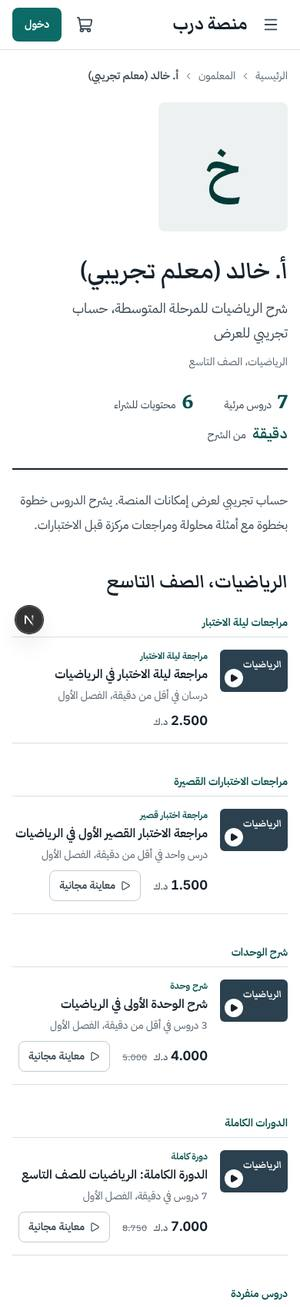
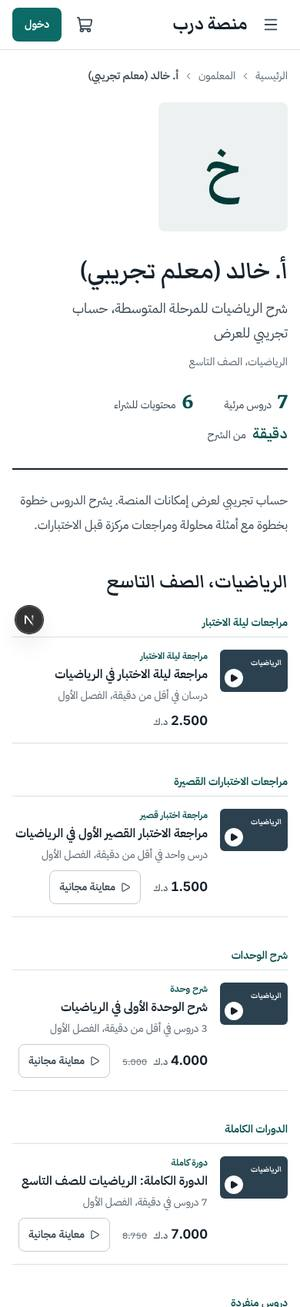
Docs: redesign report (skills, design system, detector before/after, critique fixes, tests) and final screenshots
Claude-Session: https://claude.ai/code/session_01V6x5TXbnFmVJ3Le4pU3rah

diff --git a/edu-platform/docs/design/REDESIGN.md b/edu-platform/docs/design/REDESIGN.md
@@ -1,0 +1,156 @@
+# إعادة تصميم منصة درب: «جدول الحصص»
+
+هذا الملف يوثّق إعادة التصميم على الفرع `claude/design-redesign`: المهارات المستخدمة، ونظام التصميم، وما تغيّر في كل صفحة، والقياسات قبل وبعد، ونتائج الاختبارات، وما بقي مفتوحًا.
+
+مراجع مرافقة: [DIRECTIONS.md](DIRECTIONS.md) (الاتجاهات الثلاثة وسبب الاختيار)، و`PRODUCT.md` في جذر المستودع (موجز المنتج الذي كتبته Impeccable).
+
+## 1. المهارات: التثبيت والتفعيل
+
+| المهارة | الإصدار | طريقة التثبيت | النطاق | التحقق من التفعيل |
+| --- | --- | --- | --- | --- |
+| Impeccable | 4.8.0 (محرك الفحص 0.1.18) | إضافة Claude Code من السوق الرسمي `pbakaus/impeccable` | المشروع: `.claude/settings.json` | الأوامر عملت في جلسة جديدة (`/impeccable init` كتب `PRODUCT.md`)، والخطاف مفعّل في `.impeccable/config.json`، والمهارة ظاهرة ضمن المهارات المحمّلة بعد إعادة تشغيل الجلسة |
+| UI UX Pro Max | 2.15.0 | `npx ui-ux-pro-max-cli@2.15.0 init --ai claude` بعد تشغيل تجريبي `--dry-run` ومراجعة ما سيكتبه | المشروع: `.claude/skills/` | المهارات السبع ظاهرة ضمن المهارات المحمّلة في الجلسة |
+| Frontend Design (Anthropic) | 1.1.1 | إضافة رسمية متاحة مسبقًا في البيئة | الحساب | حُمّلت فعليًا عبر أداة المهارات واتُّبعت خطواتها |
+
+ملاحظات صادقة:
+- مثبّت Impeccable عبر `npx impeccable install` فشل لأن `impeccable.style` غير متاح من الشبكة، ولم يُثبَّت شيء منه. استُخدم بدلًا منه طريق الإضافة الرسمي.
+- الإضافات لا تُحمَّل داخل جلسة جارية، لذا تحققتُ منها بتشغيل Claude Code بلا واجهة في جلسة جديدة قبل الاعتماد عليها.
+- لم يُكتب أي مفتاح أو سر في الملفات.
+
+## 2. ما استُخدم من كل مهارة
+
+**Frontend Design:** طريقة العمل نفسها: خطة رموز قصيرة، ثم مراجعتها مقابل الموجز قبل البناء، ثم بناء ونقد بالصور. وقائمة علامات التصاميم المولّدة التي تجنّبناها: العناوين الصغيرة فوق كل قسم، وسلاسل «أ · ب · ج»، وعناوين «كلمة — جزء»، والأسهم في الأزرار، والترقيم الزخرفي. الترقيم بقي فقط حيث المحتوى تسلسل فعلي: أرقام الصفوف، وترتيب الدروس، وخطوات الشراء.
+
+**UI UX Pro Max:** بيانات أزواج الخطوط وإرشادات تجربة الاستخدام عند اختيار الخطوط ومقاسات اللمس والتباين (44px للأهداف القابلة للمس، وتباين 4.5:1 للنص).
+
+**Impeccable:**
+- `init`: كتابة `PRODUCT.md` من إجابات الموجز.
+- `detect`: قياس موضوعي للتصميم القديم، ثم للاتجاهات الثلاثة، ثم لكل صفحة بعد التطبيق (الجدول في القسم 5).
+- `critique`: مراجعتان مستقلتان للصفحة الرئيسية وصفحة الدورة، ونُفّذت أغلب ملاحظاتهما (القسم 6).
+
+## 3. نظام التصميم
+
+**الفكرة:** عالم الطالب الكويتي منظّم بأرقام الصفوف وجدول الحصص والاختبارات. البطل هو أرقام الصفوف نفسها (٦ ٧ ٨ ٩) بخط عرض كبير، وكل رقم هو زر الدخول للصف. المحتوى يُعرض كصفوف جدول بدل شبكات البطاقات.
+
+**الألوان** (في `src/app/globals.css`؛ الأساسي والمساعد قابلان للتغيير من إعدادات المالك):
+
+| الرمز | القيمة | الاستخدام |
+| --- | --- | --- |
+| `--brand` | `#0C6B66` أخضر الخليج | الأفعال والروابط والمؤشرات |
+| `--accent` | `#F2C230` أصفر الاختبار | ما يخص وقت الاختبار والمجاني والتركيز على الخلفيات الداكنة فقط |
+| `ink` | `#16212B` | النص والخطوط الفاصلة السميكة والأقسام الداكنة |
+| `mist` | `#EDF1F1` | لوحات الشراء والملخصات والشريط الجانبي |
+| `surface` | `#FFFFFF` | خلفية الصفحات |
+| `line` / `line-strong` | `#D9E0E1` / `#C3CDCF` | الخطوط الفاصلة بين الصفوف |
+
+**الخطوط:** Markazi Text للعناوين والأرقام الكبيرة، وIBM Plex Sans Arabic للواجهة والنصوص.
+
+**الزوايا والظلال:** زوايا صغيرة (4 إلى 8px)، وبلا ظلال تقريبًا؛ الفصل بين الأجزاء بخط حبر سميك أعلى القسم وخطوط رفيعة بين الصفوف.
+
+**المكوّنات المشتركة:**
+- `ProductRow` و`ProductList` (`components/site/product-card.tsx`): صف جدول فيه ملصق صغير، ونوع المحتوى، والعنوان، وسطر وصفي، والسعر، وزر معاينة. الصف كله قابل للنقر، وزر المعاينة طبقة مستقلة.
+- `ProductCover`: ملصق طباعي باسم المادة على لون داكن ثابت بدل الأغلفة المولدة.
+- `BundleRow`: صف باقة بوفر فعلي فقط.
+- `TeacherAvatar` و`TeacherGrid`: حرف أول بخط العرض بدل الصور الافتراضية.
+- `AdminPageHeader` و`StatCard` و`Section`: رأس صفحة بخط حبر، وأرقام ملخّصة بخط علوي بدل البطاقات المظللة.
+- `Button` و`Card` و`Alert` و`EmptyState` و`Table`: زوايا أصغر وبلا ظلال.
+
+## 4. ما تغيّر
+
+**صفحات الطالب:** الرئيسية، الصف، المادة، المعلمون، صفحة المعلم، صفحة الشرح أو الدورة، صفحة المذكرة، الباقات، المشاهدة، السلة، الشراء (ثلاث خطوات مرقّمة)، المكتبة (لوحة «تابع من حيث توقفت»)، الطلب، الحساب، الدخول والتسجيل، صفحة 404.
+
+**لوحتا المالك والمعلم:** شريط جانبي على خلفية `mist` مع مؤشر بلون العلامة، ورؤوس صفحات بخط العرض، وأرقام ملخّصة، ونموذج المحتوى بخطوات مرقّمة، وجداول بلا ظلال.
+
+**المحتوى والنصوص:**
+- عناوين المحتوى التجريبي بلا شرطات طويلة، وتصحيح «لالصف» إلى «للصف».
+- مدة الوصول بصيغة عربية صحيحة («7 أيام»، «بلا تاريخ انتهاء» بدل «وصول غير محدد») وتظهر بجوار السعر وفي شريط الشراء على الجوال.
+- الأسئلة الشائعة تغطي الفيديو ومدة الوصول والاسترجاع.
+
+**ترحيل آمن:** `db/migrations/0005_brand_palette.sql` يحدّث لوني العلامة فقط إذا كانا على القيم الافتراضية القديمة، فلا يمس اختيار مالك غيّرهما.
+
+**ما لم يتغيّر:** منطق الدفع، والصلاحيات، والوصول للملفات والدروس، وقاعدة البيانات (عدا الترحيل أعلاه). صفحات `/lab` (نماذج الاتجاهات الثلاثة) تعمل في بيئة التطوير فقط وتُرجع 404 في الإنتاج.
+
+## 5. القياس قبل وبعد (Impeccable detect)
+
+نفس البيانات ونفس الروابط، بلا أي إعدادات تجاهل (`--no-config`)، على 1280×800 و390×844. «قبل» هو الإصدار `e8516cf` مشغّلًا على منفذ منفصل.
+
+| الصفحة | قبل (كمبيوتر/جوال) | بعد |
+| --- | --- | --- |
+| الرئيسية | 34 / 29 | 0 / 0 |
+| الصف | 12 / 6 | 0 / 0 |
+| المادة | 5 / 2 | 0 / 0 |
+| المعلمون | 7 / 6 | 0 / 0 |
+| صفحة المعلم | 5 / 3 | 0 / 0 |
+| الدورة (فيديو) | 4 / 3 | 0 / 0 |
+| المذكرة (PDF) | 4 / 4 | 0 / 0 |
+| الباقات | 10 / 9 | 0 / 0 |
+| الدخول | 2 / 2 | 0 / 0 |
+| **المجموع** | **147** | **0** |
+
+أكثر الملاحظات قبل: لوحة ألوان تبدو مولّدة (42)، تباين ضعيف (30)، عناوين غير متوازنة (24)، لوحة كريمية (18)، مربعات أيقونات متكررة (14).
+
+صفر ملاحظات لا يعني أن التصميم ممتاز؛ الأداة تكشف الأنماط المعروفة فقط. لذلك أُضيفت المراجعة التالية.
+
+## 6. مراجعة Impeccable (critique)
+
+شُغّلت مراجعتان بلا واجهة، كل منهما بتقييمين مستقلين (مراجعة تصميم + فحص بالأداة في المتصفح). في مراجعة الرئيسية لم يتمكن التقييم الثاني من تشغيل أوامره، فشغّلته الجلسة الرئيسية بعد انتهاء الأول، وهذا مذكور في تقريرها.
+
+| الصفحة | النتيجة (معايير Nielsen) |
+| --- | --- |
+| الرئيسية | 25/40 (مقبول) |
+| صفحة الدورة | 23/40 (مقبول) |
+
+**ما أصلحتُه بعدها:**
+- خلل أدخلته أثناء التنظيف: خلفية الرأس الثابت صارت شفافة (`bg-surface-sm`). صُحح.
+- مدة الوصول كانت تظهر «وصول غير محدد»، وصيغة «N يومًا» خاطئة من 3 إلى 10. صُححت وأُضيفت لشريط الشراء على الجوال.
+- قسم «ضمن باقة أوفر» كان يصف باقة أغلى بأنها أوفر. صار «متوفر أيضًا ضمن باقة» مع توضيح ما تضمه.
+- أهداف لمس صغيرة: الصف كاملًا صار قابلًا للنقر، وأزرار المعاينة وروابط الأقسام وروابط التذييل بارتفاع 44px تقريبًا.
+- حلقة التركيز على الأقسام الداكنة كانت بتباين 2.6:1. صارت صفراء.
+- لوحة الدرس المميز كانت كتلة بلا معلومات. صارت تعرض النوع والصف وعدد الدروس والسعر.
+- الأسئلة الشائعة كانت عن المذكرات فقط. أُضيفت أسئلة الفيديو ومدة الوصول والاسترجاع.
+- جملة الدفع «ادفع مرة واحدة» قد تُفهم وصولًا دائمًا. أُعيدت صياغتها.
+- إزالة الخط المشطوب الأحمر، وإضافة «السعر قبل الخصم» لقارئات الشاشة، وحذف ذكر «Bunny Stream» من صفحة المشاهدة، ولون شريط المتصفح.
+
+## 7. الاختبارات (بعد آخر تعديل)
+
+| الفحص | النتيجة |
+| --- | --- |
+| `tsc --noEmit` | ناجح |
+| Vitest (وحدات + تكامل على PostgreSQL) | 196/196 |
+| `next build` | ناجح |
+| Playwright E2E (كمبيوتر + iPhone 13 + iPad) | 33 ناجحة، 21 متخطاة عمدًا (رحلات تُشغَّل على قياس واحد)، 0 فاشلة |
+
+تعديلات الاختبارات: نصوص العناوين التجريبية الجديدة، واستبدال عنوان «اختر صفك الدراسي» بمنطقة اختيار الصف. لم يُتخطَّ أو يُعطَّل أي اختبار.
+
+## 8. ما بقي مفتوحًا
+
+- **خليط الأرقام:** أرقام الصفوف هندية-عربية (٦ ٧ ٨ ٩) كعنصر هوية، والأسعار والمدد بأرقام غربية كما في إيصالات كي نت. المراجعة اعتبرته عدم اتساق؛ القرار يحتاج رأي المالك.
+- **طول الرئيسية على الجوال** (قرابة 8000px وتسعة أقسام). المراجعة اقترحت دمج «أضيف حديثًا» و«المذكرات» والباقات؛ لم أحذف أقسامًا دون موافقة.
+- **لا يوجد بحث** في المنصة.
+- **الطالب العائد** لا يرى «تابع من حيث توقفت» في الرئيسية (موجود في المكتبة فقط).
+- **صفوف الدورة تُعرض مرتين** في صفحة الدورة (جدول الدروس ثم «أجزاء الدورة» للشراء المنفرد). وُضّح الغرض بنص، والدمج تغيير أكبر.
+- **لون شريط المتصفح** ثابت ولا يتبع لون العلامة إذا غيّره المالك.
+- **المحتوى التجريبي** يحمل «(معلم تجريبي)» ومدد قصيرة جدًا؛ يُستبدل بالمحتوى الحقيقي قبل الإطلاق.
+- **الدفع والفيديو** ما زالا مختبرين على المحاكيات فقط (كما في PR #1).
+
+## 9. الصور قبل وبعد
+
+نفس الروابط والحسابات في الحالتين. أول 1500px من كل صفحة على الكمبيوتر (1366px) وأول 1700px على الجوال (390px).
+
+| الصفحة | قبل | بعد |
+| --- | --- | --- |
+| الرئيسية | [كمبيوتر](screens/before/home-d.jpg)، [جوال](screens/before/home-m.jpg) | [كمبيوتر](screens/after/home-d.jpg)، [جوال](screens/after/home-m.jpg) |
+| الصف | [كمبيوتر](screens/before/grade-d.jpg)، [جوال](screens/before/grade-m.jpg) | [كمبيوتر](screens/after/grade-d.jpg)، [جوال](screens/after/grade-m.jpg) |
+| المادة | [كمبيوتر](screens/before/subject-d.jpg)، [جوال](screens/before/subject-m.jpg) | [كمبيوتر](screens/after/subject-d.jpg)، [جوال](screens/after/subject-m.jpg) |
+| المعلمون | [كمبيوتر](screens/before/teachers-d.jpg)، [جوال](screens/before/teachers-m.jpg) | [كمبيوتر](screens/after/teachers-d.jpg)، [جوال](screens/after/teachers-m.jpg) |
+| صفحة المعلم | [كمبيوتر](screens/before/teacher-d.jpg)، [جوال](screens/before/teacher-m.jpg) | [كمبيوتر](screens/after/teacher-d.jpg)، [جوال](screens/after/teacher-m.jpg) |
+| شرح الوحدة | [كمبيوتر](screens/before/course-d.jpg)، [جوال](screens/before/course-m.jpg) | [كمبيوتر](screens/after/course-d.jpg)، [جوال](screens/after/course-m.jpg) |
+| صفحة باقة | [كمبيوتر](screens/before/bundle-d.jpg)، [جوال](screens/before/bundle-m.jpg) | [كمبيوتر](screens/after/bundle-d.jpg)، [جوال](screens/after/bundle-m.jpg) |
+| الباقات | [كمبيوتر](screens/before/bundles-d.jpg)، [جوال](screens/before/bundles-m.jpg) | [كمبيوتر](screens/after/bundles-d.jpg)، [جوال](screens/after/bundles-m.jpg) |
+| المشاهدة | [كمبيوتر](screens/before/watch-d.jpg)، [جوال](screens/before/watch-m.jpg) | [كمبيوتر](screens/after/watch-d.jpg)، [جوال](screens/after/watch-m.jpg) |
+| الشراء | [كمبيوتر](screens/before/checkout-d.jpg)، [جوال](screens/before/checkout-m.jpg) | [كمبيوتر](screens/after/checkout-d.jpg)، [جوال](screens/after/checkout-m.jpg) |
+| المكتبة | [كمبيوتر](screens/before/library-d.jpg)، [جوال](screens/before/library-m.jpg) | [كمبيوتر](screens/after/library-d.jpg)، [جوال](screens/after/library-m.jpg) |
+| لوحة المالك | [كمبيوتر](screens/before/admin-d.jpg)، [جوال](screens/before/admin-m.jpg) | [كمبيوتر](screens/after/admin-d.jpg)، [جوال](screens/after/admin-m.jpg) |
+| المحتوى (المالك) | [كمبيوتر](screens/before/admin-products-d.jpg)، [جوال](screens/before/admin-products-m.jpg) | [كمبيوتر](screens/after/admin-products-d.jpg)، [جوال](screens/after/admin-products-m.jpg) |
+
+صور «بعد» التُقطت من الكود النهائي بعد إصلاحات المراجعة (القسم 6).

diff --git a/edu-platform/README.md b/edu-platform/README.md
@@ -112,7 +112,7 @@
 
 - `src/server/*` — منطق الخادم فقط (`server-only`): `auth`، `catalog`، `commerce`، `payments`، `access`، `storage`، `platform`، `admin`.
 - `src/app/*` — الصفحات ومسارات API (تستدعي طبقة الخادم ولا تحتوي منطقًا تجاريًا).
-- `src/components/*` — نظام التصميم والمكونات.
+- `src/components/*` — نظام التصميم والمكونات. الهوية البصرية «جدول الحصص» ورموزها موثقة في [docs/design/REDESIGN.md](docs/design/REDESIGN.md).
 - `db/migrations/*.sql` — مخطط قاعدة البيانات.
 
 **قرار هندسي واحد مختلف عن المقترح — المصادقة:** استخدمنا Supabase لقاعدة البيانات والتخزين كما هو مقترح، لكن المصادقة مبنية داخل التطبيق (جلسات في PostgreSQL + scrypt) بدل Supabase Auth، للأسباب التالية:
